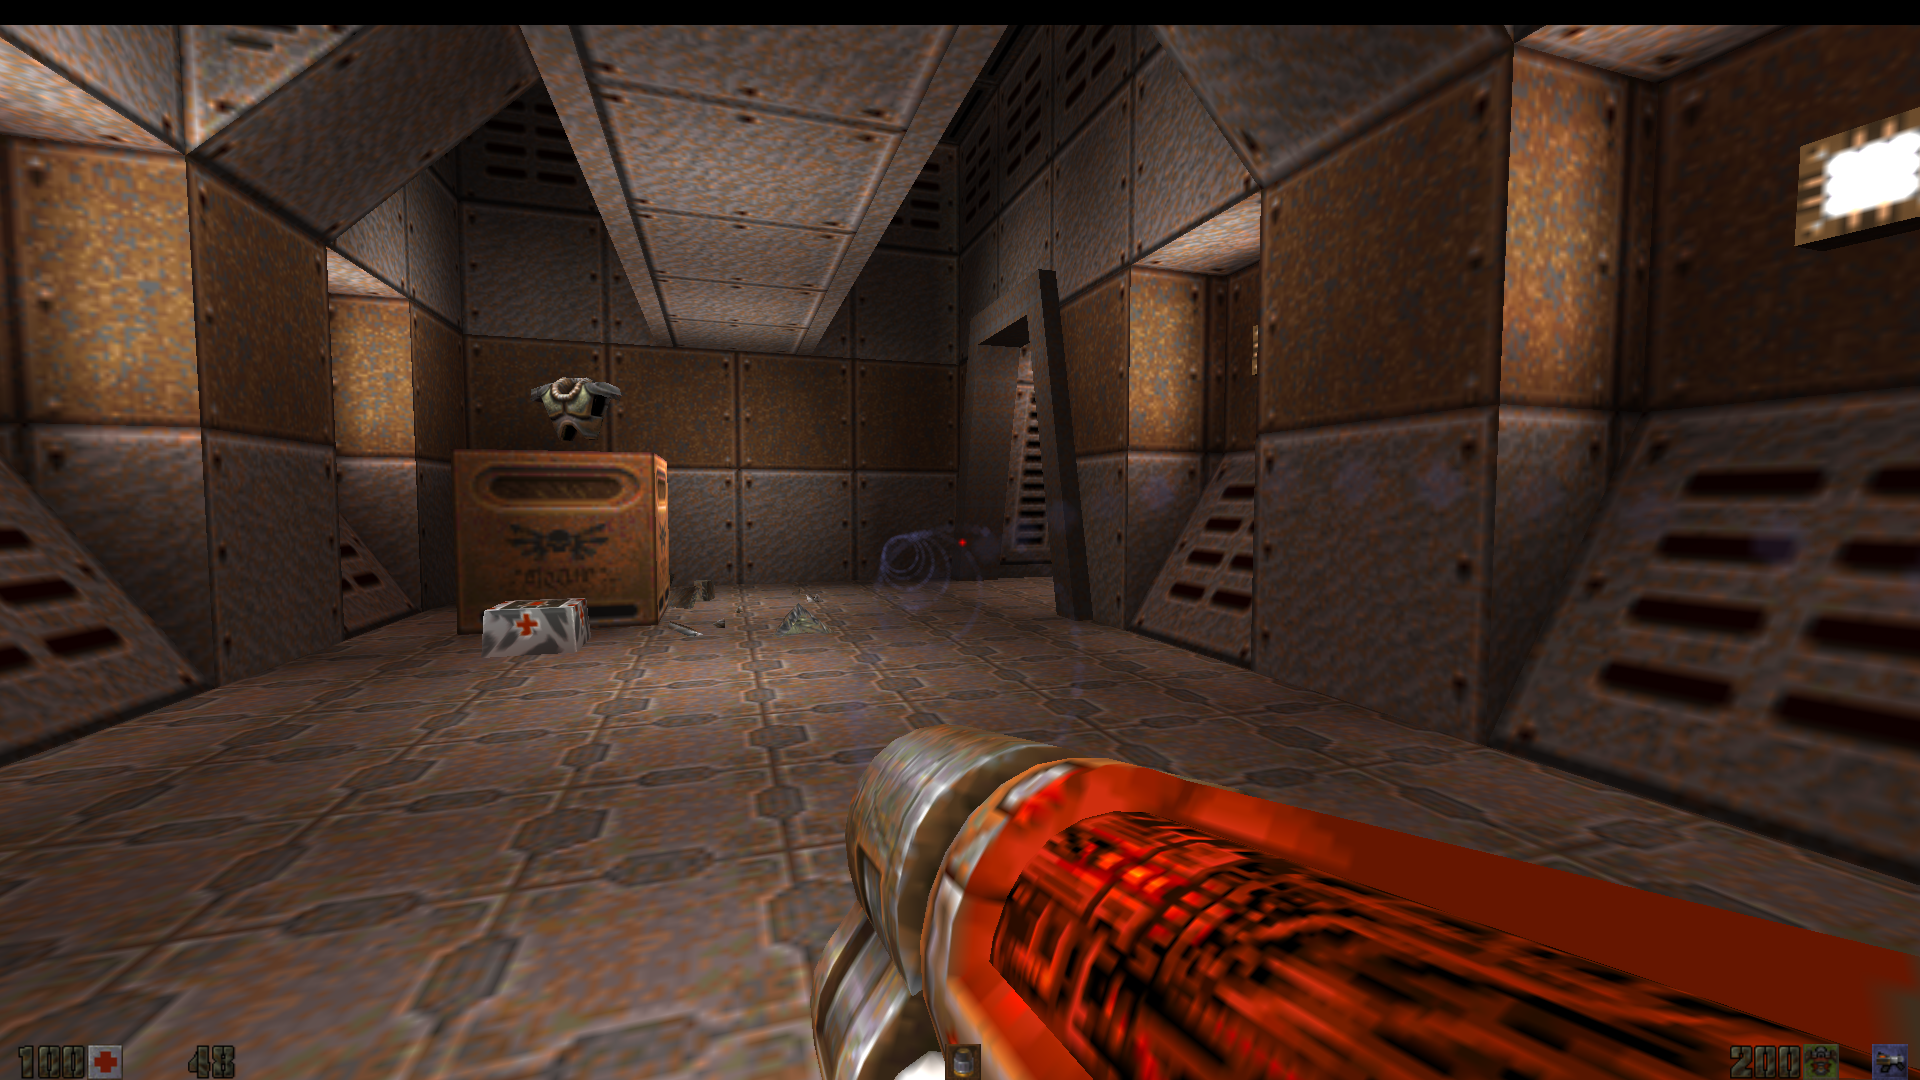
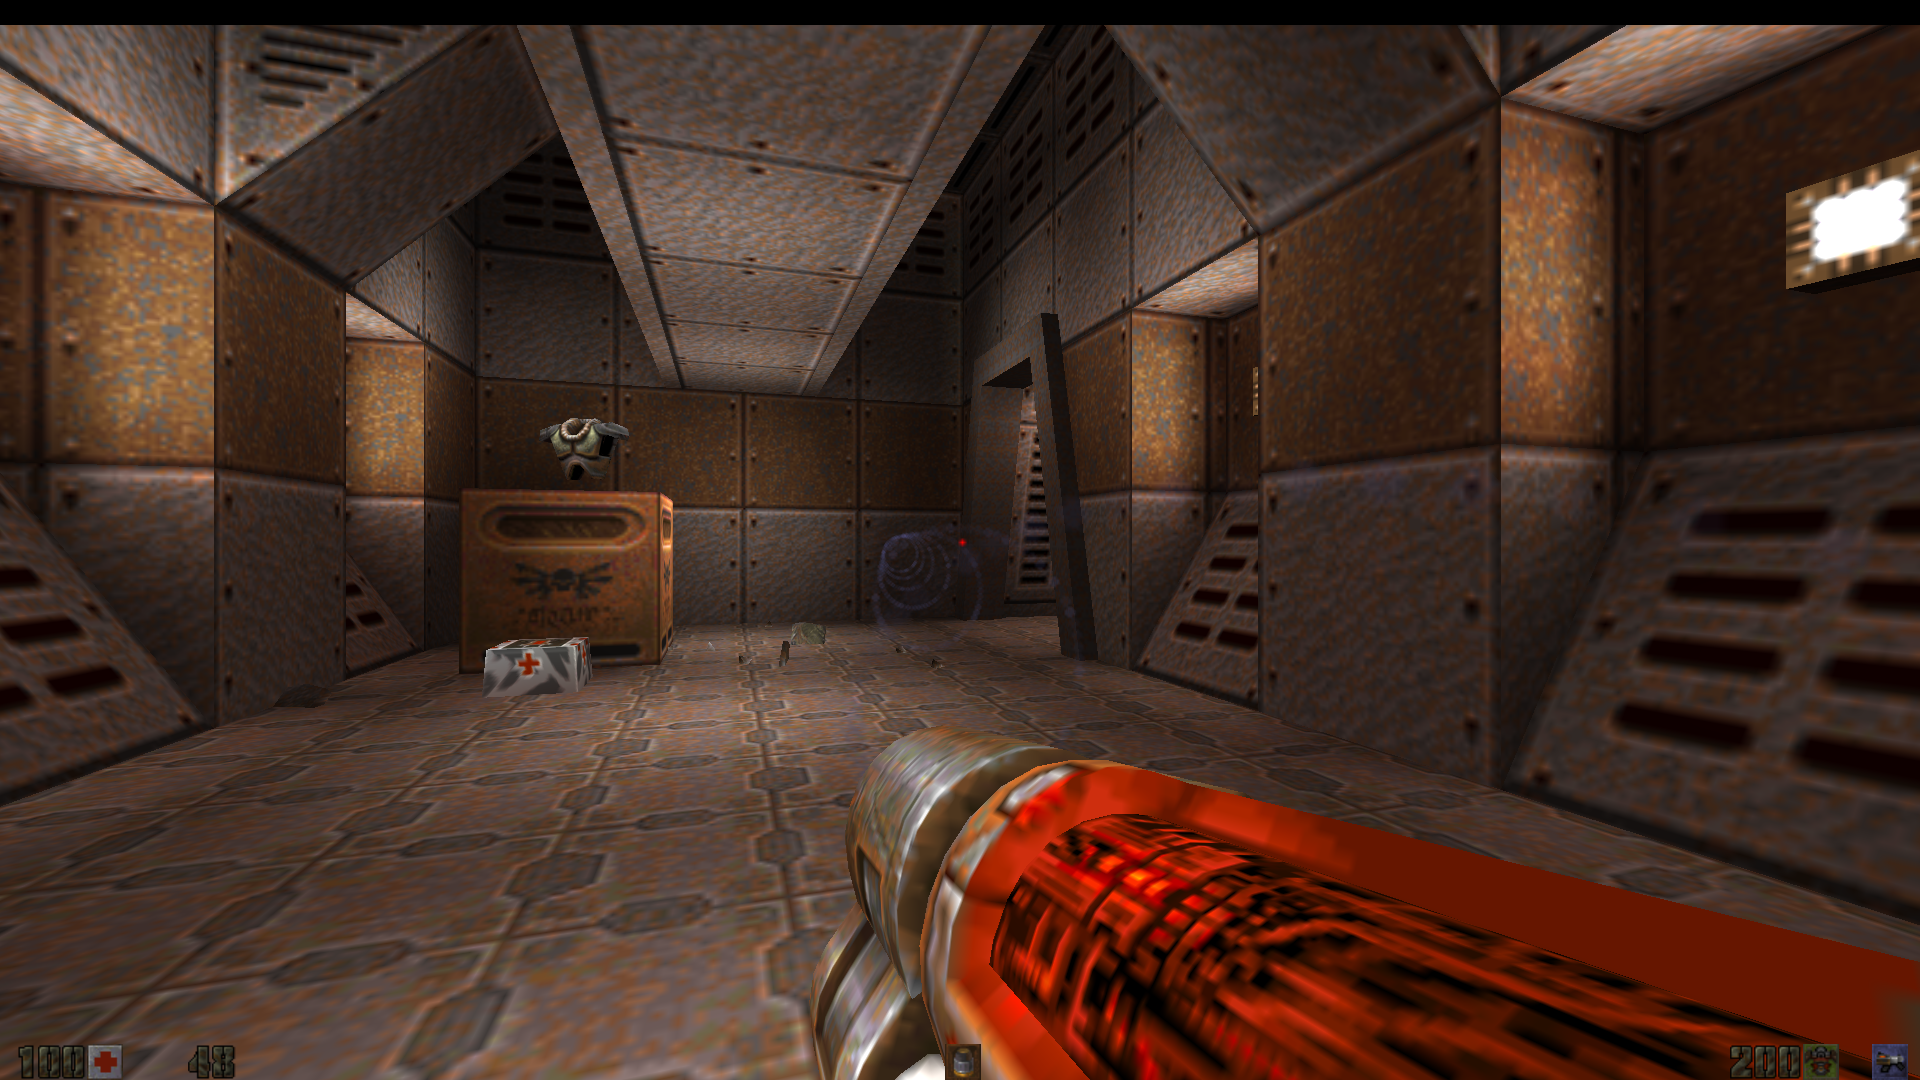
Remake feature GIFs with desktop mouse input disabled

diff --git a/docs/index.html b/docs/index.html
@@ -39,15 +39,15 @@
       <div class="section-heading"><p class="eyebrow">02 / FEATURES</p><h2 id="features-title">Client features</h2><p>Display, HUD, crosshair, audio, server browsing, and demo options. The examples use the original Quake II textures and weapons.</p></div>
       <article class="feature-row">
         <div class="feature-copy"><span class="feature-number">01</span><h3>HUD layout</h3><p>Move the stock status bar to the top, spread it across a widescreen display, or keep the classic layout. Adjust its scale without resizing the menus.</p><div class="tags"><a href="cvars.html?q=scr_hud_top">scr_hud_top</a><a href="cvars.html?q=scr_hudwide">scr_hudwide</a><a href="cvars.html?q=scr_hudscale">scr_hudscale</a></div><small>Stock status bar only. Server and mod HUDs keep their own layouts.</small></div>
-        <figure class="demo" data-demo data-poster="assets/hud-bottom-wide.png" data-animation="assets/hud.gif"><img src="assets/hud-bottom-wide.png" alt="Stock HUD switching between bottom, top, and classic centered layouts" width="1920" height="1080" loading="lazy"><figcaption><span>HUD PLACEMENT &amp; LAYOUT</span><button type="button" class="demo-toggle" aria-label="Play HUD placement GIF">Play GIF <span aria-hidden="true">▶</span></button></figcaption></figure>
+        <figure class="demo" data-demo data-poster="assets/hud-bottom-wide.png?v=mouse-free" data-animation="assets/hud.gif?v=mouse-free"><img src="assets/hud-bottom-wide.png?v=mouse-free" alt="Stock HUD switching between bottom, top, and classic centered layouts" width="1920" height="1080" loading="lazy"><figcaption><span>HUD PLACEMENT &amp; LAYOUT</span><button type="button" class="demo-toggle" aria-label="Play HUD placement GIF">Play GIF <span aria-hidden="true">▶</span></button></figcaption></figure>
       </article>
       <article class="feature-row reverse">
         <div class="feature-copy"><span class="feature-number">02</span><h3>Lighting</h3><p>Reduce the yellow cast of baked lighting. Switch between the softened look and classic lighting in real time, without reloading the map.</p><div class="tags"><a href="cvars.html?q=gl_less_yellow">gl_less_yellow</a></div><small>Original textures stay intact. Colored accent lights keep their character.</small></div>
-        <figure class="demo" data-demo data-poster="assets/lighting-softened.png" data-animation="assets/lighting.gif"><img src="assets/lighting-softened.png" alt="Classic yellow lighting switching to the less-harsh lighting option" width="1920" height="1080" loading="lazy"><figcaption><span>CLASSIC ↔ LESS HARSH YELLOW</span><button type="button" class="demo-toggle" aria-label="Play lighting comparison GIF">Play GIF <span aria-hidden="true">▶</span></button></figcaption></figure>
+        <figure class="demo" data-demo data-poster="assets/lighting-softened.png?v=mouse-free" data-animation="assets/lighting.gif?v=mouse-free"><img src="assets/lighting-softened.png?v=mouse-free" alt="Classic yellow lighting switching to the less-harsh lighting option" width="1920" height="1080" loading="lazy"><figcaption><span>CLASSIC ↔ LESS HARSH YELLOW</span><button type="button" class="demo-toggle" aria-label="Play lighting comparison GIF">Play GIF <span aria-hidden="true">▶</span></button></figcaption></figure>
       </article>
       <article class="feature-row">
         <div class="feature-copy"><span class="feature-number">03</span><h3>Crosshair settings</h3><p>Set your crosshair style, size, color and opacity. Per-hand offsets and optional layers let you adjust crosshair placement and size.</p><div class="tags"><a href="cvars.html?q=crosshair">crosshair</a><a href="cvars.html?q=ch_scale">ch_scale</a><a href="cvars.html?q=ch_red">ch_red</a></div><small>Shown here with stock crosshairs. Extra overlay art can come from your own packs.</small></div>
-        <figure class="demo" data-demo data-poster="assets/crosshair-white.png" data-animation="assets/crosshair.gif"><img src="assets/crosshair-white.png" alt="Stock crosshair changing from white to cyan and an orange dot" width="1920" height="1080" loading="lazy"><figcaption><span>CROSSHAIR COLOR &amp; STYLE</span><button type="button" class="demo-toggle" aria-label="Play crosshair customization GIF">Play GIF <span aria-hidden="true">▶</span></button></figcaption></figure>
+        <figure class="demo" data-demo data-poster="assets/crosshair-white.png?v=mouse-free" data-animation="assets/crosshair.gif?v=mouse-free"><img src="assets/crosshair-white.png?v=mouse-free" alt="Stock crosshair changing from white to cyan and an orange dot" width="1920" height="1080" loading="lazy"><figcaption><span>CROSSHAIR COLOR &amp; STYLE</span><button type="button" class="demo-toggle" aria-label="Play crosshair customization GIF">Play GIF <span aria-hidden="true">▶</span></button></figcaption></figure>
       </article>
       <div class="more-features"><article><span class="small-icon" aria-hidden="true">⌖</span><h3>Server browser</h3><p>Browse public servers and LAN games. Keep favorites in an Address Book that survives config reloads and game-directory switches.</p></article><article><span class="small-icon" aria-hidden="true">◉</span><h3>Audio</h3><p>OpenAL support for positional world sounds. Your own shots stay on the listener, with DirectSound fallback available.</p></article><article><span class="small-icon" aria-hidden="true">⏵</span><h3>Demos and locations</h3><p>Automatic demo recording, playback pause and speed controls, plus location files for naming spots on the map.</p></article></div>
     </section>

diff --git a/website/README.md b/website/README.md
@@ -44,6 +44,9 @@ Feature GIFs: stock HUD placement/layout, less-harsh-yellow lighting, and stock
 crosshair color/style, with movement and weapon firing in the HUD and crosshair
 examples. The captures are from a local single-player session;
 they do not establish multiplayer behavior or performance.
+Mouse input is disabled and keyboard bindings are cleared in the temporary
+capture copy. Camera movement and feature changes are scripted, so desktop
+mouse movement cannot change the recorded view.
 
 Support links match the public Shufflebox website: PayPal and
 `https://cash.app/$renegadeandroid`.
